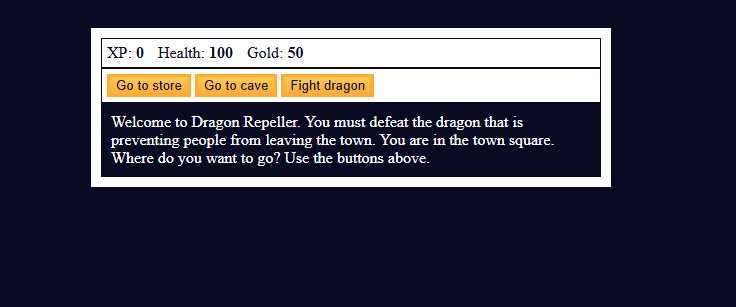
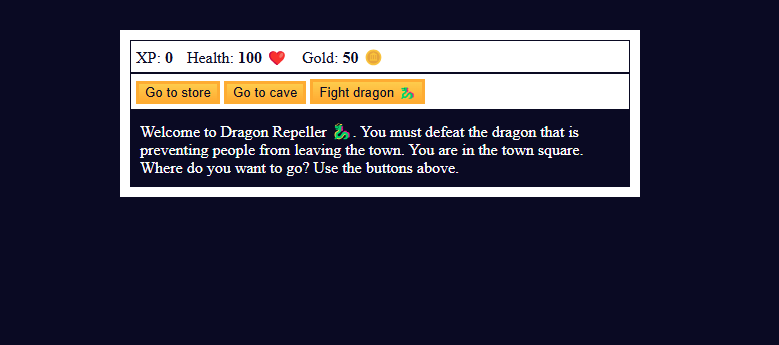
updated
accept more items for update in columns, update of rpg photo with emojis, and re order of @media element for width depending columns

Changed region(s): [[0.125, 0.0586, 0.8438, 0.6156]]

diff --git a/styles.css b/styles.css
@@ -145,6 +145,12 @@ body {
     justify-content: center;
 }
 
+@media (max-width: 768px) {
+    .projects-grid {
+        grid-template-columns: 1fr;
+    }
+}
+
 .p-container {
     background: white;
     padding: 15px;
@@ -195,12 +201,6 @@ legend {
     color: #333;
 }
 
-@media (max-width: 768px) {
-    .projects-grid {
-        grid-template-columns: 1fr;
-    }
-}
-
 footer {
     background: #222;
     padding: 20px;
@@ -246,9 +246,6 @@ footer {
         flex-direction: column;
         gap: 15px;
     }
-}
-
-@media (max-width: 600px) {
     body {
         font-size: 14px;
         padding: 10px;

diff --git a/index.html b/index.html
@@ -110,6 +110,15 @@
                     <legend>Text RPG in JavaScript</legend>
                 </a>
             </div>
+            <!--    Copiar y acomodar por cada proyecto!
+            <div class="p-container">
+                <a href="#" target="_blank">
+                    <div class="img-container">
+                        <img src="rpg-game.png" alt="juego RPG">
+                    </div>
+                    <legend>Blank</legend>
+                </a>
+            </div> -->
         </div>
     </section>
     <navbar class="hidden navbar" id="navbar">
